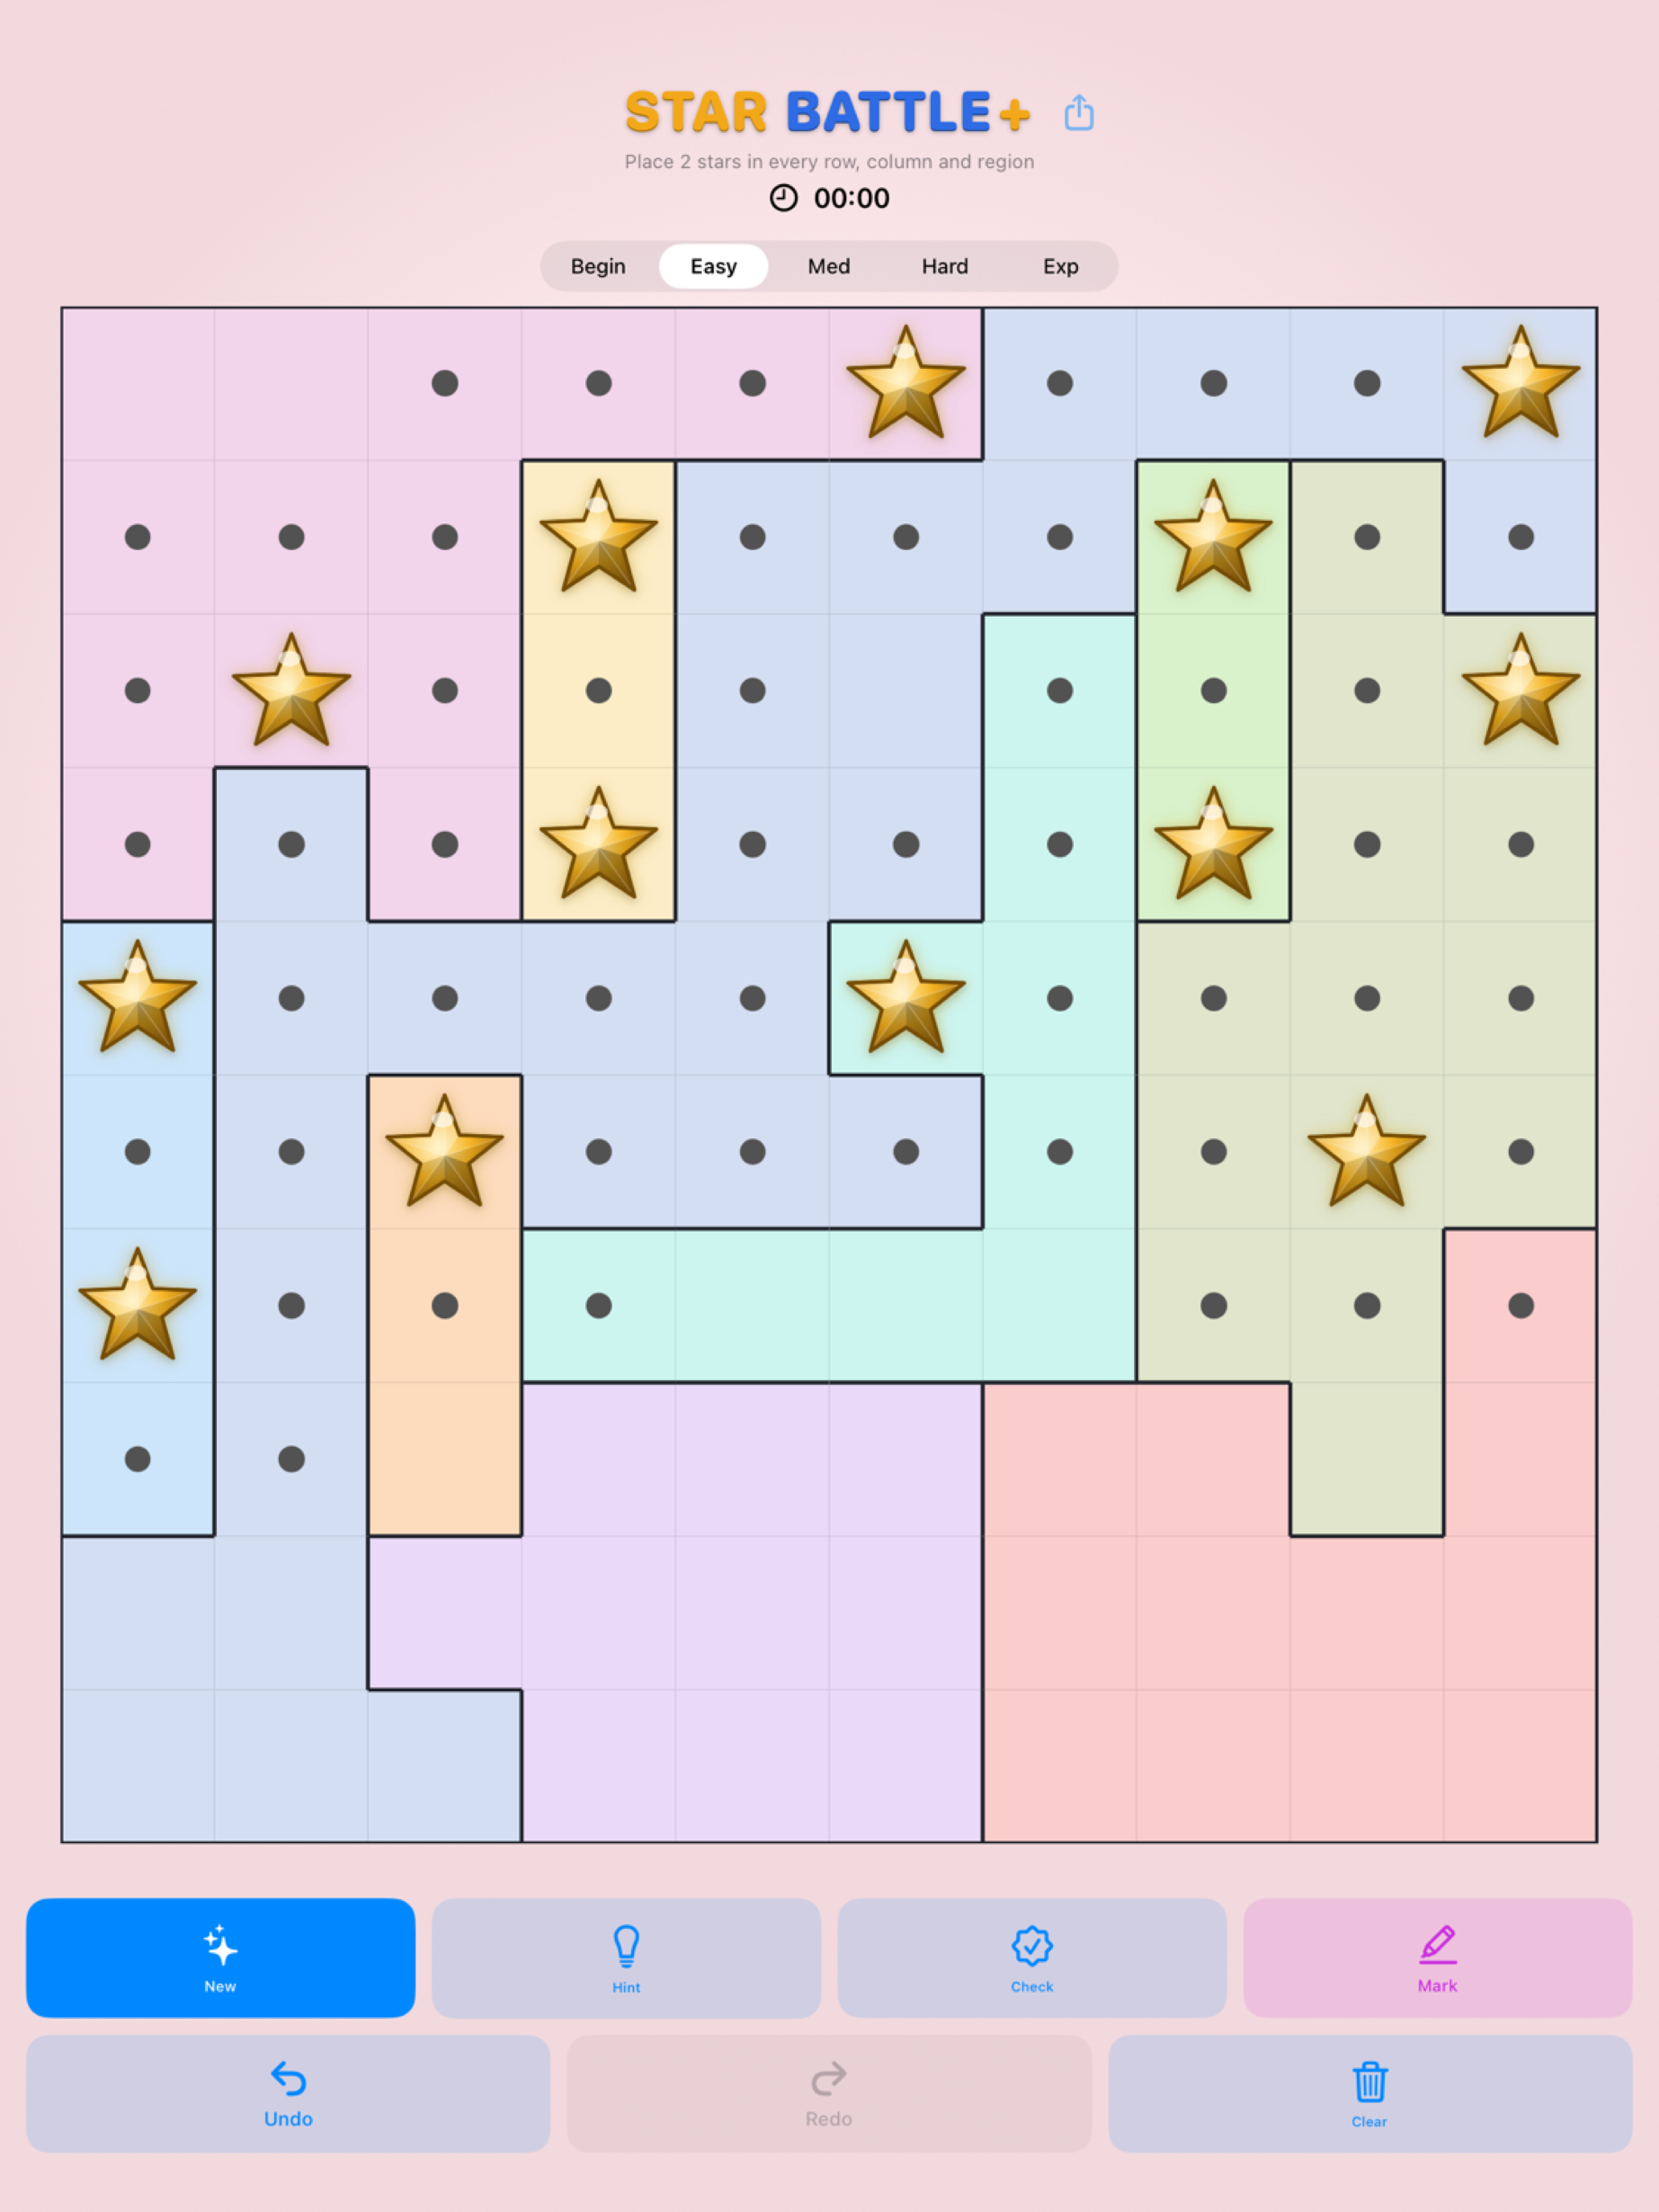
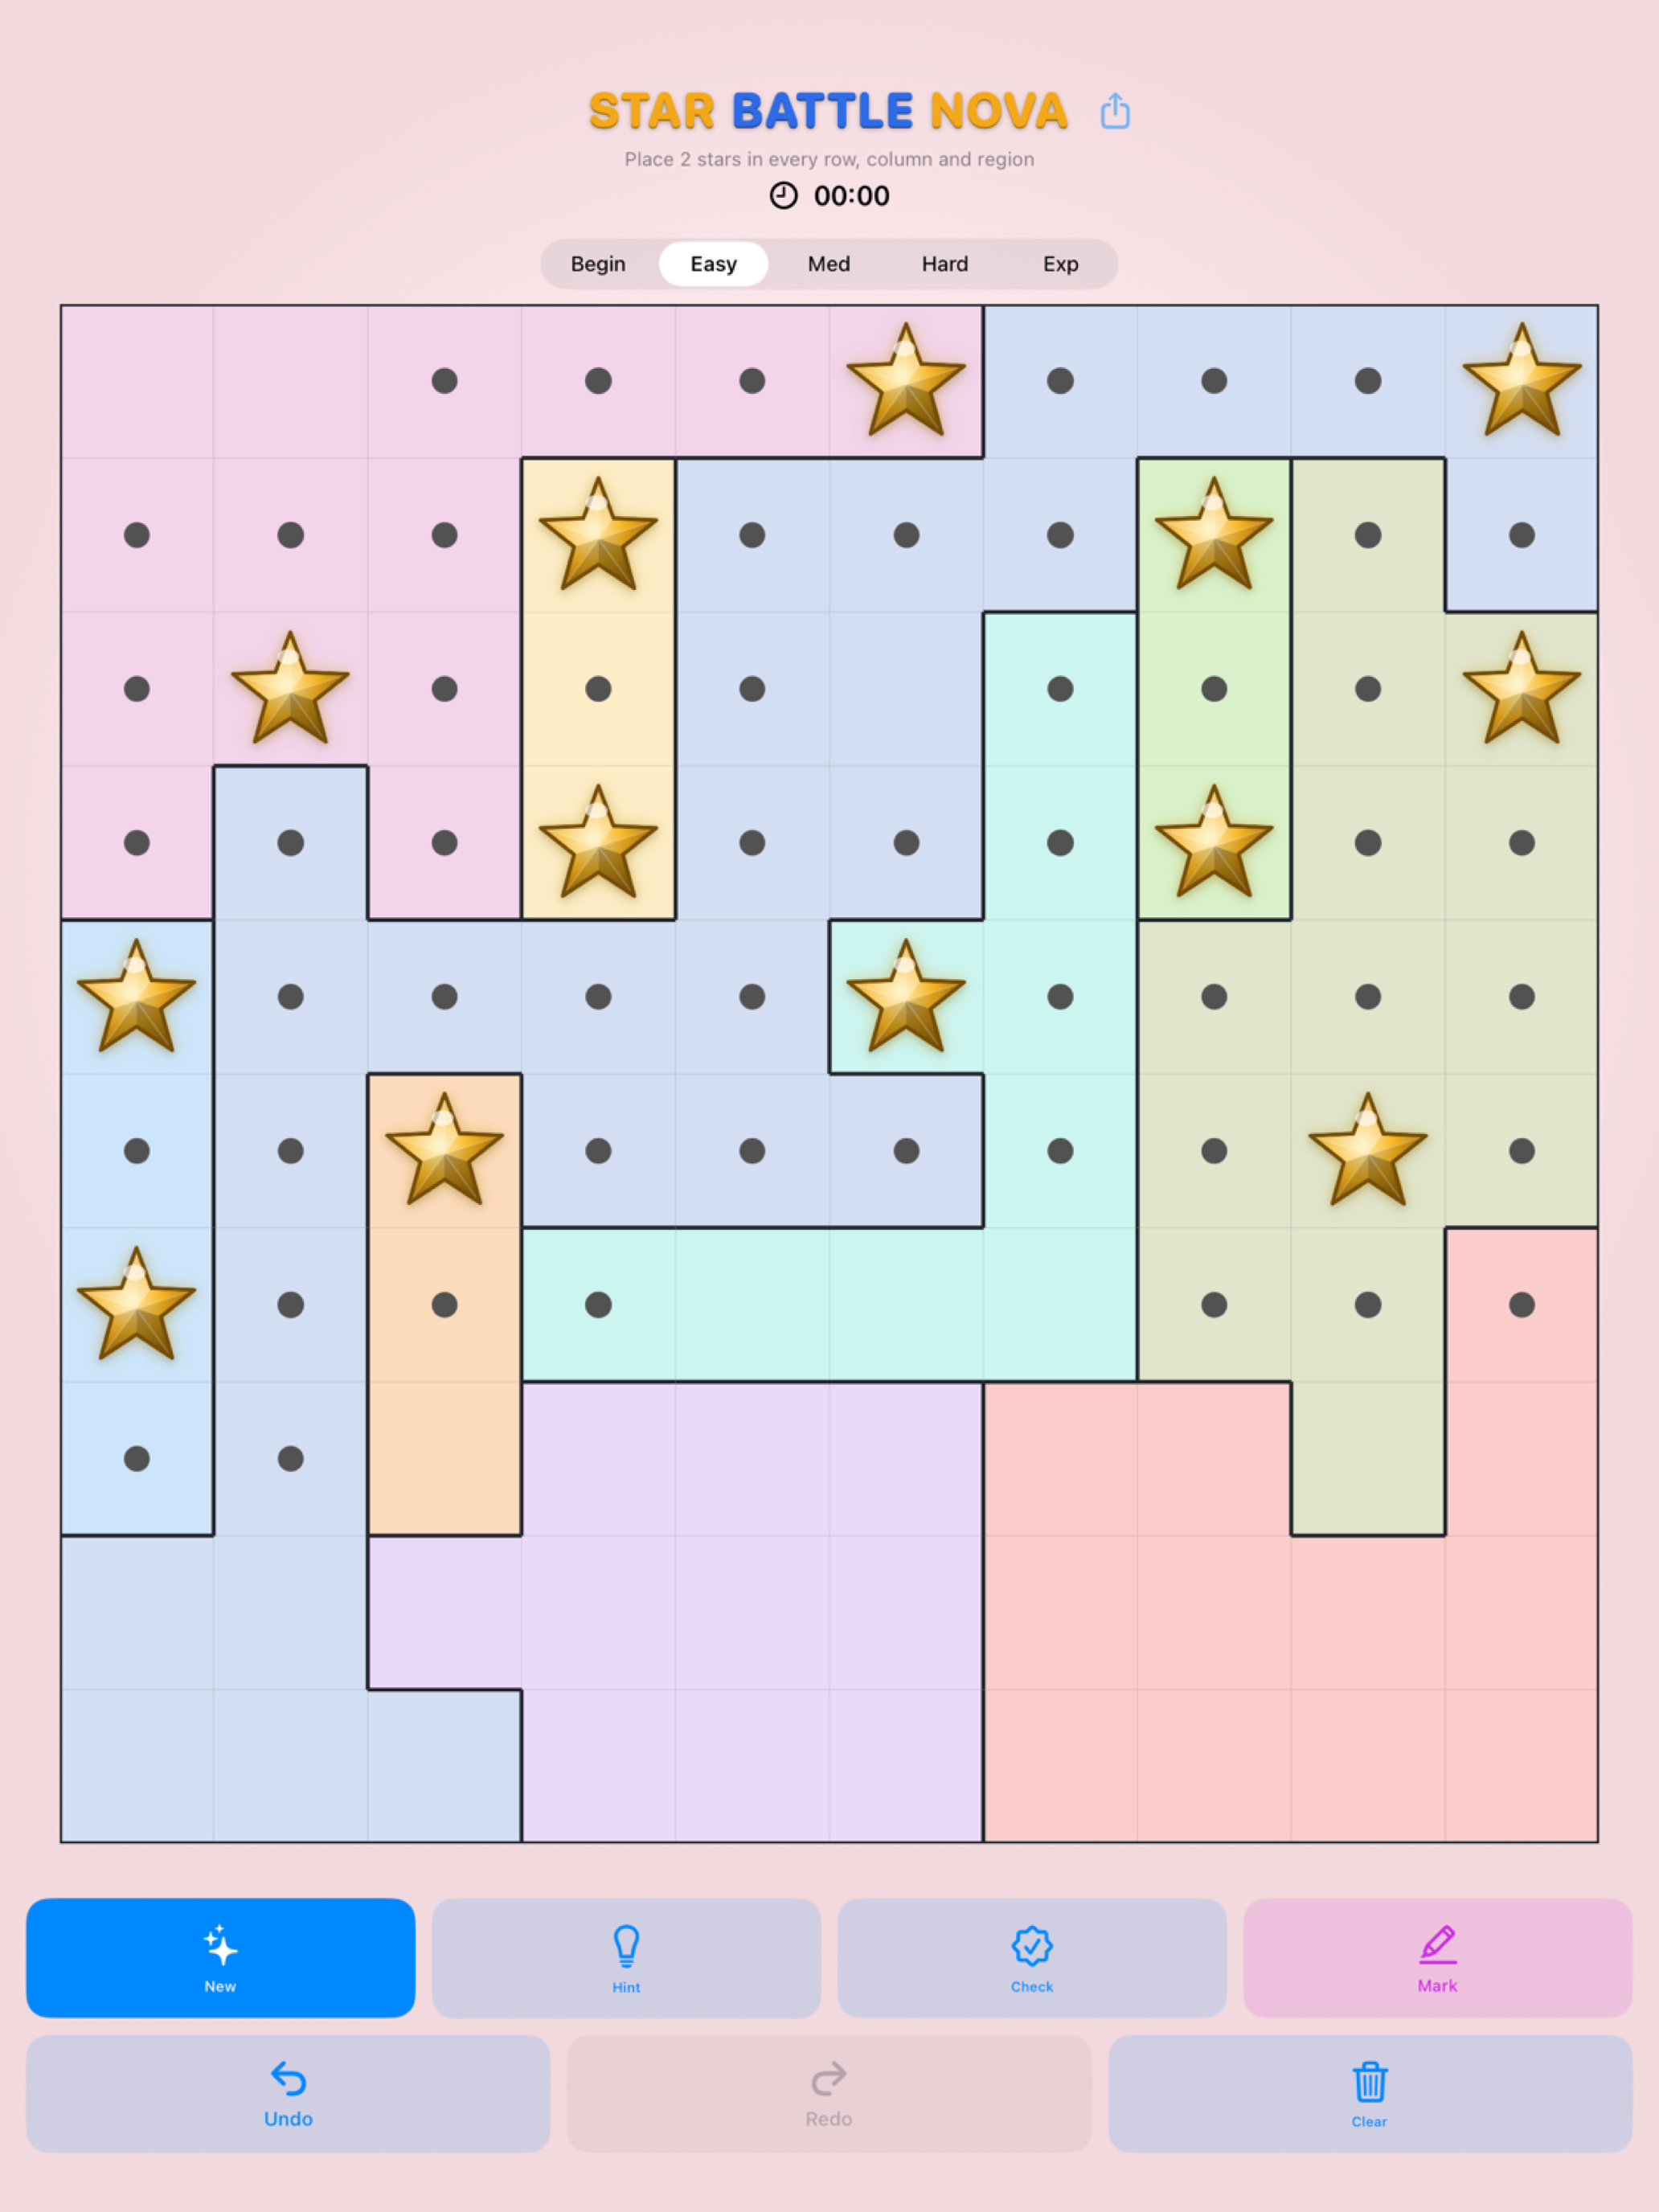
Rename to Star Battle Nova (avoid App Store 4.1 copycat rejection)
"Star Battle+" read as a copycat among the crowded Star Battle field. Add the
distinctive word "Nova" (keeping "Star Battle" first): display name, in-app
wordmark (STAR BATTLE NOVA), UI strings, catalogs, website, metadata. Refresh
the Play screenshots. Version stays 2.2.1.

diff --git a/StarBattle/GameView.swift b/StarBattle/GameView.swift
@@ -278,8 +278,8 @@ struct GameView: View {
     /// Shares a link that opens the app to this exact board on someone else's device.
     private var shareButton: some View {
         ShareLink(item: BoardShareLink.url(for: shareablePuzzle),
-                  subject: Text("Star Battle+"),
-                  message: Text("Can you solve this Star Battle+ board?")) {
+                  subject: Text("Star Battle Nova"),
+                  message: Text("Can you solve this Star Battle Nova board?")) {
             Image(systemName: "square.and.arrow.up")
                 .font(.title3.weight(.semibold))
                 .foregroundStyle(.secondary)
@@ -654,24 +654,25 @@ struct AppBackground: View {
     ])
 }
 
-/// The game title: "STAR BATTLE+" in all caps to echo the star key-art — a golden "STAR",
-/// a royal-blue "BATTLE" and a golden "+". Solid colours with only a hint of shading — a
-/// subtle darker under-edge and a soft cast shadow — rather than heavy 3D lettering.
+/// The game title: "STAR BATTLE NOVA" in all caps to echo the star key-art — a golden
+/// "STAR", a royal-blue "BATTLE" and a golden "NOVA". Solid colours with only a hint of
+/// shading — a subtle darker under-edge and a soft cast shadow — rather than heavy 3D
+/// lettering.
 struct GameTitle: View {
     var body: some View {
         HStack(spacing: 2) {
             ShadedWord(text: "STAR ", color: Color(hex: 0xF3A81A), shade: Color(hex: 0xB5790A))
-            ShadedWord(text: "BATTLE", color: Color(hex: 0x2E6BE5), shade: Color(hex: 0x224F9E))
-            ShadedWord(text: "+", color: Color(hex: 0xF3A81A), shade: Color(hex: 0xB5790A))
+            ShadedWord(text: "BATTLE ", color: Color(hex: 0x2E6BE5), shade: Color(hex: 0x224F9E))
+            ShadedWord(text: "NOVA", color: Color(hex: 0xF3A81A), shade: Color(hex: 0xB5790A))
         }
-        .font(.system(size: 34, weight: .heavy, design: .rounded))
+        .font(.system(size: 30, weight: .heavy, design: .rounded))
         .tracking(0.5)
         .minimumScaleFactor(0.7)
         .lineLimit(1)
         // A soft, low cast shadow for a gentle lift — no gradient, no gloss.
         .shadow(color: .black.opacity(0.16), radius: 1.5, x: 0, y: 1)
         .accessibilityElement()
-        .accessibilityLabel("Star Battle+")
+        .accessibilityLabel("Star Battle Nova")
         .accessibilityAddTraits(.isHeader)
     }
 }

diff --git a/docs/index.html b/docs/index.html
@@ -3,8 +3,8 @@
 <head>
 <meta charset="utf-8">
 <meta name="viewport" content="width=device-width, initial-scale=1">
-<title>Star Battle+ — a fun logic puzzle</title>
-<meta name="description" content="Star Battle+ is a fun Star Battle logic puzzle for iPhone and iPad. Place two stars in every row, column and region — no two may ever touch. Free to play, with a one-time unlock for unlimited puzzles.">
+<title>Star Battle Nova — a fun logic puzzle</title>
+<meta name="description" content="Star Battle Nova is a fun Star Battle logic puzzle for iPhone and iPad. Place two stars in every row, column and region — no two may ever touch. Free to play, with a one-time unlock for unlimited puzzles.">
 <style>
   :root {
     --cherry: #e8a417;
@@ -93,8 +93,8 @@
 <body>
   <header>
     <div class="wrap">
-      <img class="icon" src="icon.png" alt="Star Battle+ app icon">
-      <h1>Star Battle+</h1>
+      <img class="icon" src="icon.png" alt="Star Battle Nova app icon">
+      <h1>Star Battle Nova</h1>
       <p class="tagline">A fun logic puzzle. Fill the board with stars — but never let two touch.</p>
       <a class="cta" href="#how">Learn how to play<small>iPhone &amp; iPad · iOS 17+ · Free to play</small></a>
     </div>
@@ -102,7 +102,7 @@
 
   <section>
     <div class="wrap">
-      <img class="hero-img" src="board.png" alt="A solved Star Battle+ board">
+      <img class="hero-img" src="board.png" alt="A solved Star Battle Nova board">
     </div>
   </section>
 
@@ -157,12 +157,12 @@
     <div class="wrap">
       <h2>Privacy Policy</h2>
       <div class="policy">
-        <p>Star Battle+ is built to respect your privacy. It does <strong>not collect, track, or share any personal information</strong>.</p>
+        <p>Star Battle Nova is built to respect your privacy. It does <strong>not collect, track, or share any personal information</strong>.</p>
         <ul>
           <li><strong>No data collection.</strong> There are no accounts and no sign-in, and the app contains no analytics or advertising. It does not gather your name, email, contacts, location, or device identifiers.</li>
           <li><strong>Everything stays on your device.</strong> Your puzzles, progress, statistics, and settings are stored only on your device. Boards are generated on device, so the app works fully offline and sends nothing to us or anyone else.</li>
           <li><strong>Purchases.</strong> The optional unlock is handled entirely by Apple’s App Store / StoreKit. We never see or store your payment details.</li>
-          <li><strong>No third parties.</strong> Star Battle+ includes no third-party SDKs, trackers, or advertising networks.</li>
+          <li><strong>No third parties.</strong> Star Battle Nova includes no third-party SDKs, trackers, or advertising networks.</li>
           <li><strong>Suitable for all ages.</strong> The app collects no data from anyone, including children.</li>
           <li><strong>Deleting your data.</strong> Removing the app deletes all of its data from your device.</li>
         </ul>
@@ -175,7 +175,7 @@
 
   <footer>
     <div class="wrap">
-      <p class="credit">Star Battle+ is a friendly take on <strong>Star Battle</strong>, the classic
+      <p class="credit">Star Battle Nova is a friendly take on <strong>Star Battle</strong>, the classic
       logic puzzle invented by <strong>Hans Eendebak</strong>. All credit for the original
       puzzle design goes to him.</p>
       Made with ⭐️ &amp; SwiftUI. &nbsp;·&nbsp;

diff --git a/StarBattle/CherryBattleIntroView.swift b/StarBattle/CherryBattleIntroView.swift
@@ -1,8 +1,8 @@
 //
 //  CherryBattleIntroView.swift
-//  Star Battle+ — intro / welcome screen
+//  Star Battle Nova — intro / welcome screen
 //
-//  Shows the "Star Battle+" star-fighter key-art splash full-bleed and
+//  Shows the "Star Battle Nova" star-fighter key-art splash full-bleed and
 //  makes it feel like a live brawl: a repeating one-two impact that shakes the frame,
 //  flashes light where the fists clash, and sends a shockwave ring rippling out — over
 //  a slow breathing zoom, with sparkles twinkling around the logo. Tapping anywhere
@@ -161,7 +161,7 @@ struct CherryBattleIntroView: View {
                 .frame(width: w, height: h)
                 .clipped()
                 .accessibilityElement()
-                .accessibilityLabel("Star Battle+")
+                .accessibilityLabel("Star Battle Nova")
 
             // Clash flash — sized to the displayed art, not the whole (wide) screen.
             RadialGradient(

diff --git a/StarBattle/AppIconArt.swift b/StarBattle/AppIconArt.swift
@@ -1,6 +1,6 @@
 import SwiftUI
 
-/// The app icon artwork: a zoomed-in crop of a Star Battle+ board showing one small,
+/// The app icon artwork: a zoomed-in crop of a Star Battle Nova board showing one small,
 /// irregular region (seven cells) with its two cherries already correctly placed — far
 /// enough apart that they never touch. Rendered from the `#Preview` below and exported
 /// into `AppIcon.appiconset` (see the app-icon regeneration notes).

diff --git a/StarBattle/HelpView.swift b/StarBattle/HelpView.swift
@@ -104,7 +104,7 @@ struct HelpView: View {
 
                 Section("Credits") {
                     VStack(alignment: .leading, spacing: 8) {
-                        Text("Star Battle+ is a friendly take on **Star Battle**, the classic logic puzzle invented by **Hans Eendebak**. All credit for the original puzzle design goes to him.")
+                        Text("Star Battle Nova is a friendly take on **Star Battle**, the classic logic puzzle invented by **Hans Eendebak**. All credit for the original puzzle design goes to him.")
                         Text("Made with ⭐️ & SwiftUI.")
                             .foregroundStyle(.secondary)
                     }

diff --git a/StarBattle/Models.swift b/StarBattle/Models.swift
@@ -27,7 +27,7 @@ nonisolated enum CellHighlight: Equatable, Codable {
     case guessEmpty
 }
 
-/// A fully described Star Battle+ puzzle.
+/// A fully described Star Battle Nova puzzle.
 ///
 /// A puzzle is defined entirely by its region layout. The `solution` is kept
 /// alongside it for reference, but the player never needs it — every puzzle the

diff --git a/StarBattle/OnboardingView.swift b/StarBattle/OnboardingView.swift
@@ -31,7 +31,7 @@ struct OnboardingView: View {
     private var slides: [Slide] {
         [
             Slide(art: .piece, tint: .red,
-                  title: "Welcome to Star Battle+",
+                  title: "Welcome to Star Battle Nova",
                   body: "A bite-size logic puzzle. Fill the board with \(piece.plural) using pure deduction — no luck required."),
             Slide(art: .perLineBoth, tint: .orange,
                   title: "Two per line — or one",

diff --git a/StarBattle/PaywallView.swift b/StarBattle/PaywallView.swift
@@ -14,7 +14,7 @@ struct PaywallView: View {
             ScrollView {
                 VStack(spacing: 22) {
                     hero
-                    Text("Star Battle+ Full Access")
+                    Text("Star Battle Nova Full Access")
                         .font(.title.bold())
                         .multilineTextAlignment(.center)
 

diff --git a/StarBattle/PurchaseManager.swift b/StarBattle/PurchaseManager.swift
@@ -1,7 +1,7 @@
 import Foundation
 import StoreKit
 
-/// Owns the app's single in-app purchase — "Star Battle+ Full Access", a one-time
+/// Owns the app's single in-app purchase — "Star Battle Nova Full Access", a one-time
 /// non-consumable unlock that removes the free daily puzzle limit. Uses StoreKit 2:
 /// it loads the product, tracks the current entitlement, and exposes purchase and
 /// restore. A background task also listens for transactions that arrive outside a

diff --git a/StarBattle/StarBattleApp.swift b/StarBattle/StarBattleApp.swift
@@ -9,7 +9,7 @@ struct StarBattleApp: App {
     }
 }
 
-/// Shows the animated Star Battle+ intro first; tapping Play fades it away to reveal
+/// Shows the animated Star Battle Nova intro first; tapping Play fades it away to reveal
 /// the game. (The real iOS launch screen — drawn by the system before any code runs —
 /// is necessarily static, so an animated intro like this lives just inside the app.)
 private struct RootView: View {

diff --git a/AppStore/metadata.md b/AppStore/metadata.md
@@ -1,6 +1,6 @@
-# Star Battle+ — App Store metadata
+# Star Battle Nova — App Store metadata
 
-_Brand name is **Star Battle+** (matches the app's on-device display name and the website).
+_Brand name is **Star Battle Nova** (matches the app's on-device display name and the website).
 Internal project/target/scheme remain `StarBattle`._
 
 ## What's New (2.2.1, ≤4000)
@@ -23,7 +23,7 @@ Pick your challenge, track your progress, and play in your language.
 • Localized for 10 languages, a refined new title, and a fresh look.
 
 ## App name (≤30)
-Star Battle+
+Star Battle Nova
 
 ## Subtitle (≤30)
 Two-not-touch logic puzzle
@@ -35,7 +35,7 @@ Two stars in every row, column and region — and never touching. Five difficult
 logic puzzle,star battle,two not touch,brain,queens,deduction,grid,nonogram,sudoku,offline,puzzle
 
 ## Description (≤4000)
-Star Battle+ is a clean, friendly take on Star Battle — the elegant "two-not-touch" logic puzzle.
+Star Battle Nova is a clean, friendly take on Star Battle — the elegant "two-not-touch" logic puzzle.
 
 The rules are simple, the deductions are deep: place two stars in every row, every column and every coloured region. The catch — no two stars may ever touch, not even diagonally. From those few rules grows a surprisingly rich puzzle you solve with pure logic.
 
@@ -56,9 +56,9 @@ WHY YOU'LL LIKE IT
 FREE TO PLAY
 Beginner mode is always free and unlimited, and Easy, Medium, Hard and Expert each give you a fresh puzzle every day at no cost. Love it? A single one-time purchase unlocks unlimited new puzzles in every mode, forever — no subscriptions.
 
-Whether you have two minutes in a queue or twenty on the couch, Star Battle+ is a calm, rewarding little brain workout.
+Whether you have two minutes in a queue or twenty on the couch, Star Battle Nova is a calm, rewarding little brain workout.
 
-Star Battle+ is a friendly take on Star Battle, the classic logic puzzle invented by Hans Eendebak. All credit for the original puzzle design goes to him.
+Star Battle Nova is a friendly take on Star Battle, the classic logic puzzle invented by Hans Eendebak. All credit for the original puzzle design goes to him.
 
 ## Support / Marketing URL
 https://jiroikedafeingold.github.io/StarBattle/
@@ -68,4 +68,4 @@ https://jiroikedafeingold.github.io/StarBattle/
   `main`). It only goes live once GitHub Pages is enabled for the repo:
   Settings → Pages → Source: "Deploy from a branch" → Branch `main`, folder `/docs`.
 - Keep the description honest: puzzles are **generated on device**, not hand-authored.
-- The App Store listing name is **Star Battle+**; the Xcode target/scheme is still `StarBattle`.
+- The App Store listing name is **Star Battle Nova**; the Xcode target/scheme is still `StarBattle`.